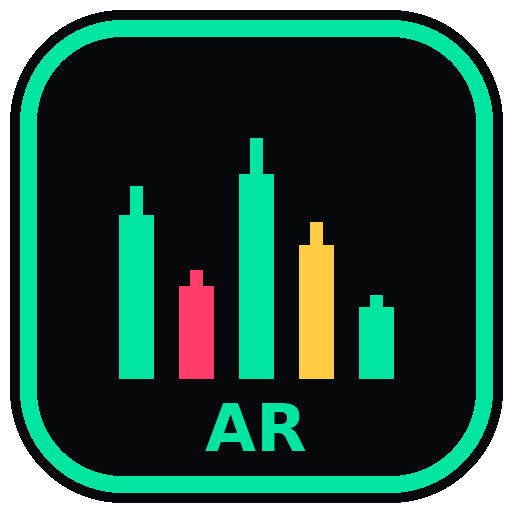
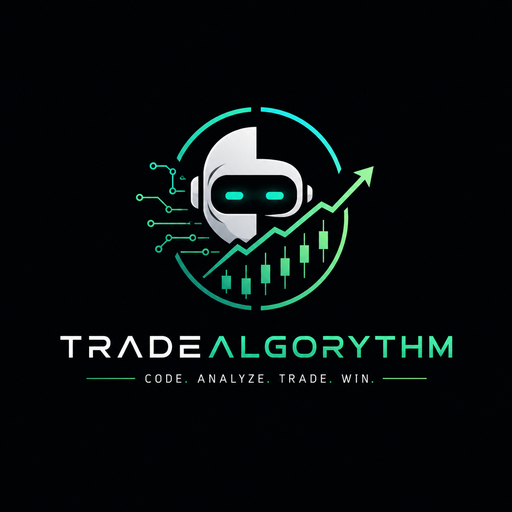
Add files via upload

diff --git a/index.html b/index.html
@@ -11,13 +11,23 @@ in<!DOCTYPE html>
 <meta name="theme-color" content="#00e5a0">
 <meta name="description" content="AI-powered crypto trading bot for Bybit">
 <link rel="manifest" href="manifest.json">
+<!-- Favicon for browser tab -->
+<link rel="icon" type="image/x-icon" href="favicon.ico">
+<link rel="icon" type="image/png" sizes="32x32" href="favicon-32.png">
+<link rel="icon" type="image/png" sizes="16x16" href="favicon-16.png">
+<link rel="shortcut icon" href="favicon.ico">
+<!-- Apple touch icon — bookmark/homescreen on iPhone/iPad -->
 <link rel="apple-touch-icon" href="icon-192.png">
+<link rel="apple-touch-icon" sizes="120x120" href="icon-192.png">
+<link rel="apple-touch-icon" sizes="152x152" href="icon-192.png">
+<link rel="apple-touch-icon" sizes="180x180" href="icon-192.png">
 <link rel="apple-touch-icon" sizes="192x192" href="icon-192.png">
-<link rel="apple-touch-icon" sizes="512x512" href="icon-512.png">
+<!-- Android / PWA -->
 <link rel="icon" type="image/png" sizes="192x192" href="icon-192.png">
[1 lines of base64/hex data omitted]
-<link rel="shortcut icon" href="icon-192.png">
-<title>AlgoRhythm v4 — Bybit</title>
+<link rel="icon" type="image/png" sizes="512x512" href="icon-512.png">
+<!-- Inline fallback (works even without icon files uploaded) -->
[1 lines of base64/hex data omitted]
+<title>AlgoRhythm — Trade Bot</title>
 <link href="https://fonts.googleapis.com/css2?family=Syne:wght@400;500;600;700&family=Fira+Code:wght@300;400;500&display=swap" rel="stylesheet">
 <style>
 :root{
@@ -4454,19 +4464,12 @@ async function getMarketRegime() {
   }
 }
 
-// Returns which trade directions are allowed for the current regime.
-// TRENDING_UP   → only LONG entries (ride the macro trend)
-// TRENDING_DOWN → only SHORT entries (shortingEnabled must be true)
-// RANGING       → no trades (choppy — our breakout logic breaks down here)
-// UNKNOWN       → cautious: allow both but log a warning
+// Regime is DISPLAY ONLY — bot trades both LONG and SHORT freely
+// Signal strength and technical analysis determines direction, not regime
 function getAllowedDirections(regime) {
-  switch (regime) {
-    case 'TRENDING_UP':   return [1];          // longs only
-    case 'TRENDING_DOWN': return [-1];         // shorts only
-    case 'RANGING':       return [];           // sit out
-    case 'UNKNOWN':
-    default:              return [1, -1];      // allow both, but rare
-  }
+  // Always allow both directions regardless of regime
+  // The 7-layer analysis engine picks the right direction per coin
+  return [1, -1];
 }
 
 // ── Auto-Scan & Auto-Trade ────────────────────────────────────────────
@@ -4478,7 +4481,7 @@ let autoScanSecsLeft = 0;
 const AUTO_SCAN_INTERVAL = 5 * 60; // seconds
 const AUTO_TRADE_SIZE    = 100;
 const AUTO_TRADE_THRESH  = 60; // 60%+ = auto-trade (4/7 indicators agree)
-const MAX_CONCURRENT_TRADES = 100; // max positions browser bot will open (server has separate 6 limit)
+const MAX_CONCURRENT_TRADES = 10; // max positions browser bot will open (server has separate 6 limit)
 
 function toggleAutoScan() {
   autoScanEnabled = !autoScanEnabled;
@@ -4536,25 +4539,10 @@ async function processAutoTrades(results) {
   const regime = await getMarketRegime();
   const allowedDirs = getAllowedDirections(regime);
 
-  if (allowedDirs.length === 0) {
-    log('INFO', `🤖 AUTO-TRADE PAUSED — Market regime is ${regime}. Waiting for a clear trend before placing trades.`);
-    return;
-  }
-
-  if (regime === 'UNKNOWN') {
-    log('INFO', '🤖 ⚠ Regime UNKNOWN — proceeding with caution (both directions allowed, max 1 trade this cycle)');
-  }
-
-  // If shorting is disabled, remove SHORT direction even if regime allows it
-  const shortingOn = cfg.shortingEnabled || false;
-  const effectiveDirs = allowedDirs.filter(d => d === 1 || shortingOn);
-  if (effectiveDirs.length === 0) {
-    log('INFO', `🤖 Regime is ${regime} but shorting is disabled — no valid direction. Enable shorting or wait for TRENDING_UP.`);
-    return;
-  }
-
-  const dirLabel = effectiveDirs.map(d => d===1?'LONG':'SHORT').join('/');
-  log('INFO', `🤖 Regime: ${regime} — only ${dirLabel} trades allowed this scan`);
+  // Regime is informational only — both directions always allowed
+  // Each coin's signal determines its own direction via technical analysis
+  const effectiveDirs = [1, -1];
+  log('INFO', `🤖 Regime: ${regime} — scanning for LONG and SHORT opportunities`);
 
   // ── STEP 1: STRICT SIGNAL FILTER ────────────────────────────────────
   // 7 conditions + confidence threshold + regime direction match.
@@ -4566,7 +4554,7 @@ async function processAutoTrades(results) {
     r.perfectSetup === true &&
     r.confidence >= AUTO_TRADE_THRESH &&
     r.signal !== 'WAIT' &&
-    effectiveDirs.includes(r.direction)   // ← REGIME DIRECTION GATE
+    true   // direction allowed freely — regime is display only
   );
 
   if (!strong.length) {

diff --git a/bybit_proxy.py b/bybit_proxy.py
@@ -1403,17 +1403,12 @@ def _auto_trading_loop():
             total_syms = len(SCAN_SYMBOLS) + len(SPOT_SCAN_SYMBOLS)
             print(f'  [AutoTrader] 🔍 Scanning {total_syms} symbols ({len(SCAN_SYMBOLS)} futures + {len(SPOT_SCAN_SYMBOLS)} spot)...')
 
-            # Check market regime
+            # Regime check — display only, does NOT block any direction
             regime=_check_regime()
-            if regime=='RANGING':
-                print(f'  [AutoTrader] ↔️ Market ranging — skipping this scan')
-                time.sleep(scan_interval)
-                continue
-
-            # TRENDING_UP = longs only, TRENDING_DOWN = shorts only
-            # UNKNOWN = both directions allowed (no BTC data / unclear)
-            allowed_dirs=[1] if regime=='TRENDING_UP' else ([-1] if regime=='TRENDING_DOWN' else [1,-1])
-            print(f'  [AutoTrader] 🌡️ Regime: {regime} | Allowed: {"LONG" if allowed_dirs==[1] else "SHORT" if allowed_dirs==[-1] else "BOTH"} | Mode: {_auto_creds["trading_mode"]}')
+            # Both LONG and SHORT always allowed regardless of regime
+            # Each coin's technical analysis determines its own direction
+            allowed_dirs=[1,-1]
+            print(f'  [AutoTrader] 🌡️ Regime: {regime} | Trading: BOTH directions | Mode: {_auto_creds["trading_mode"]}')
 
             # Get current positions
             positions=_get_positions()